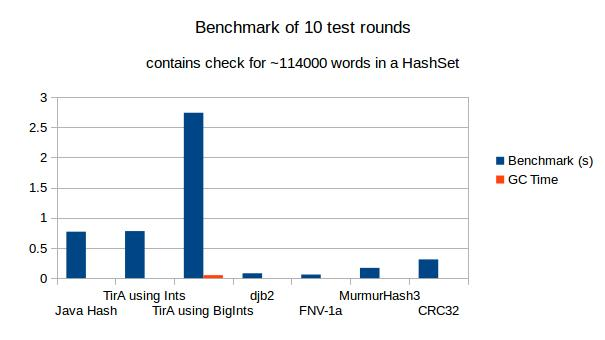
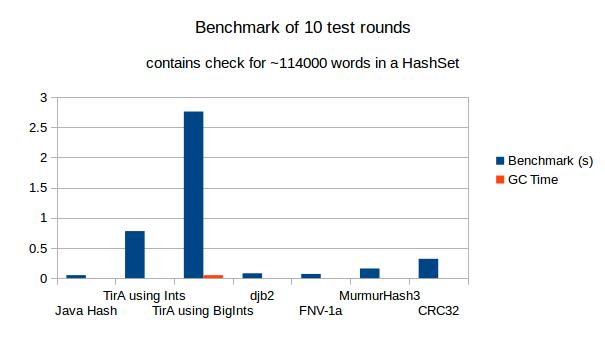
Update benchmark images

diff --git a/Sanapuuro/src/main/java/sanapuuro/hashfunctions/JavaHashForStrings.java b/Sanapuuro/src/main/java/sanapuuro/hashfunctions/JavaHashForStrings.java
@@ -19,11 +19,6 @@ public class JavaHashForStrings extends HashFunction<String> {
      */
     @Override
     public int getHash(String s) {
-        int hash = 0;
-        for (int i = 0; i < s.length(); i++){
-            int charVal = s.charAt(i);
-            hash += charVal*(int)Math.pow(31, s.length()-1-i);          
-        }
-        return hash;
+        return s.hashCode();
     }
 }
